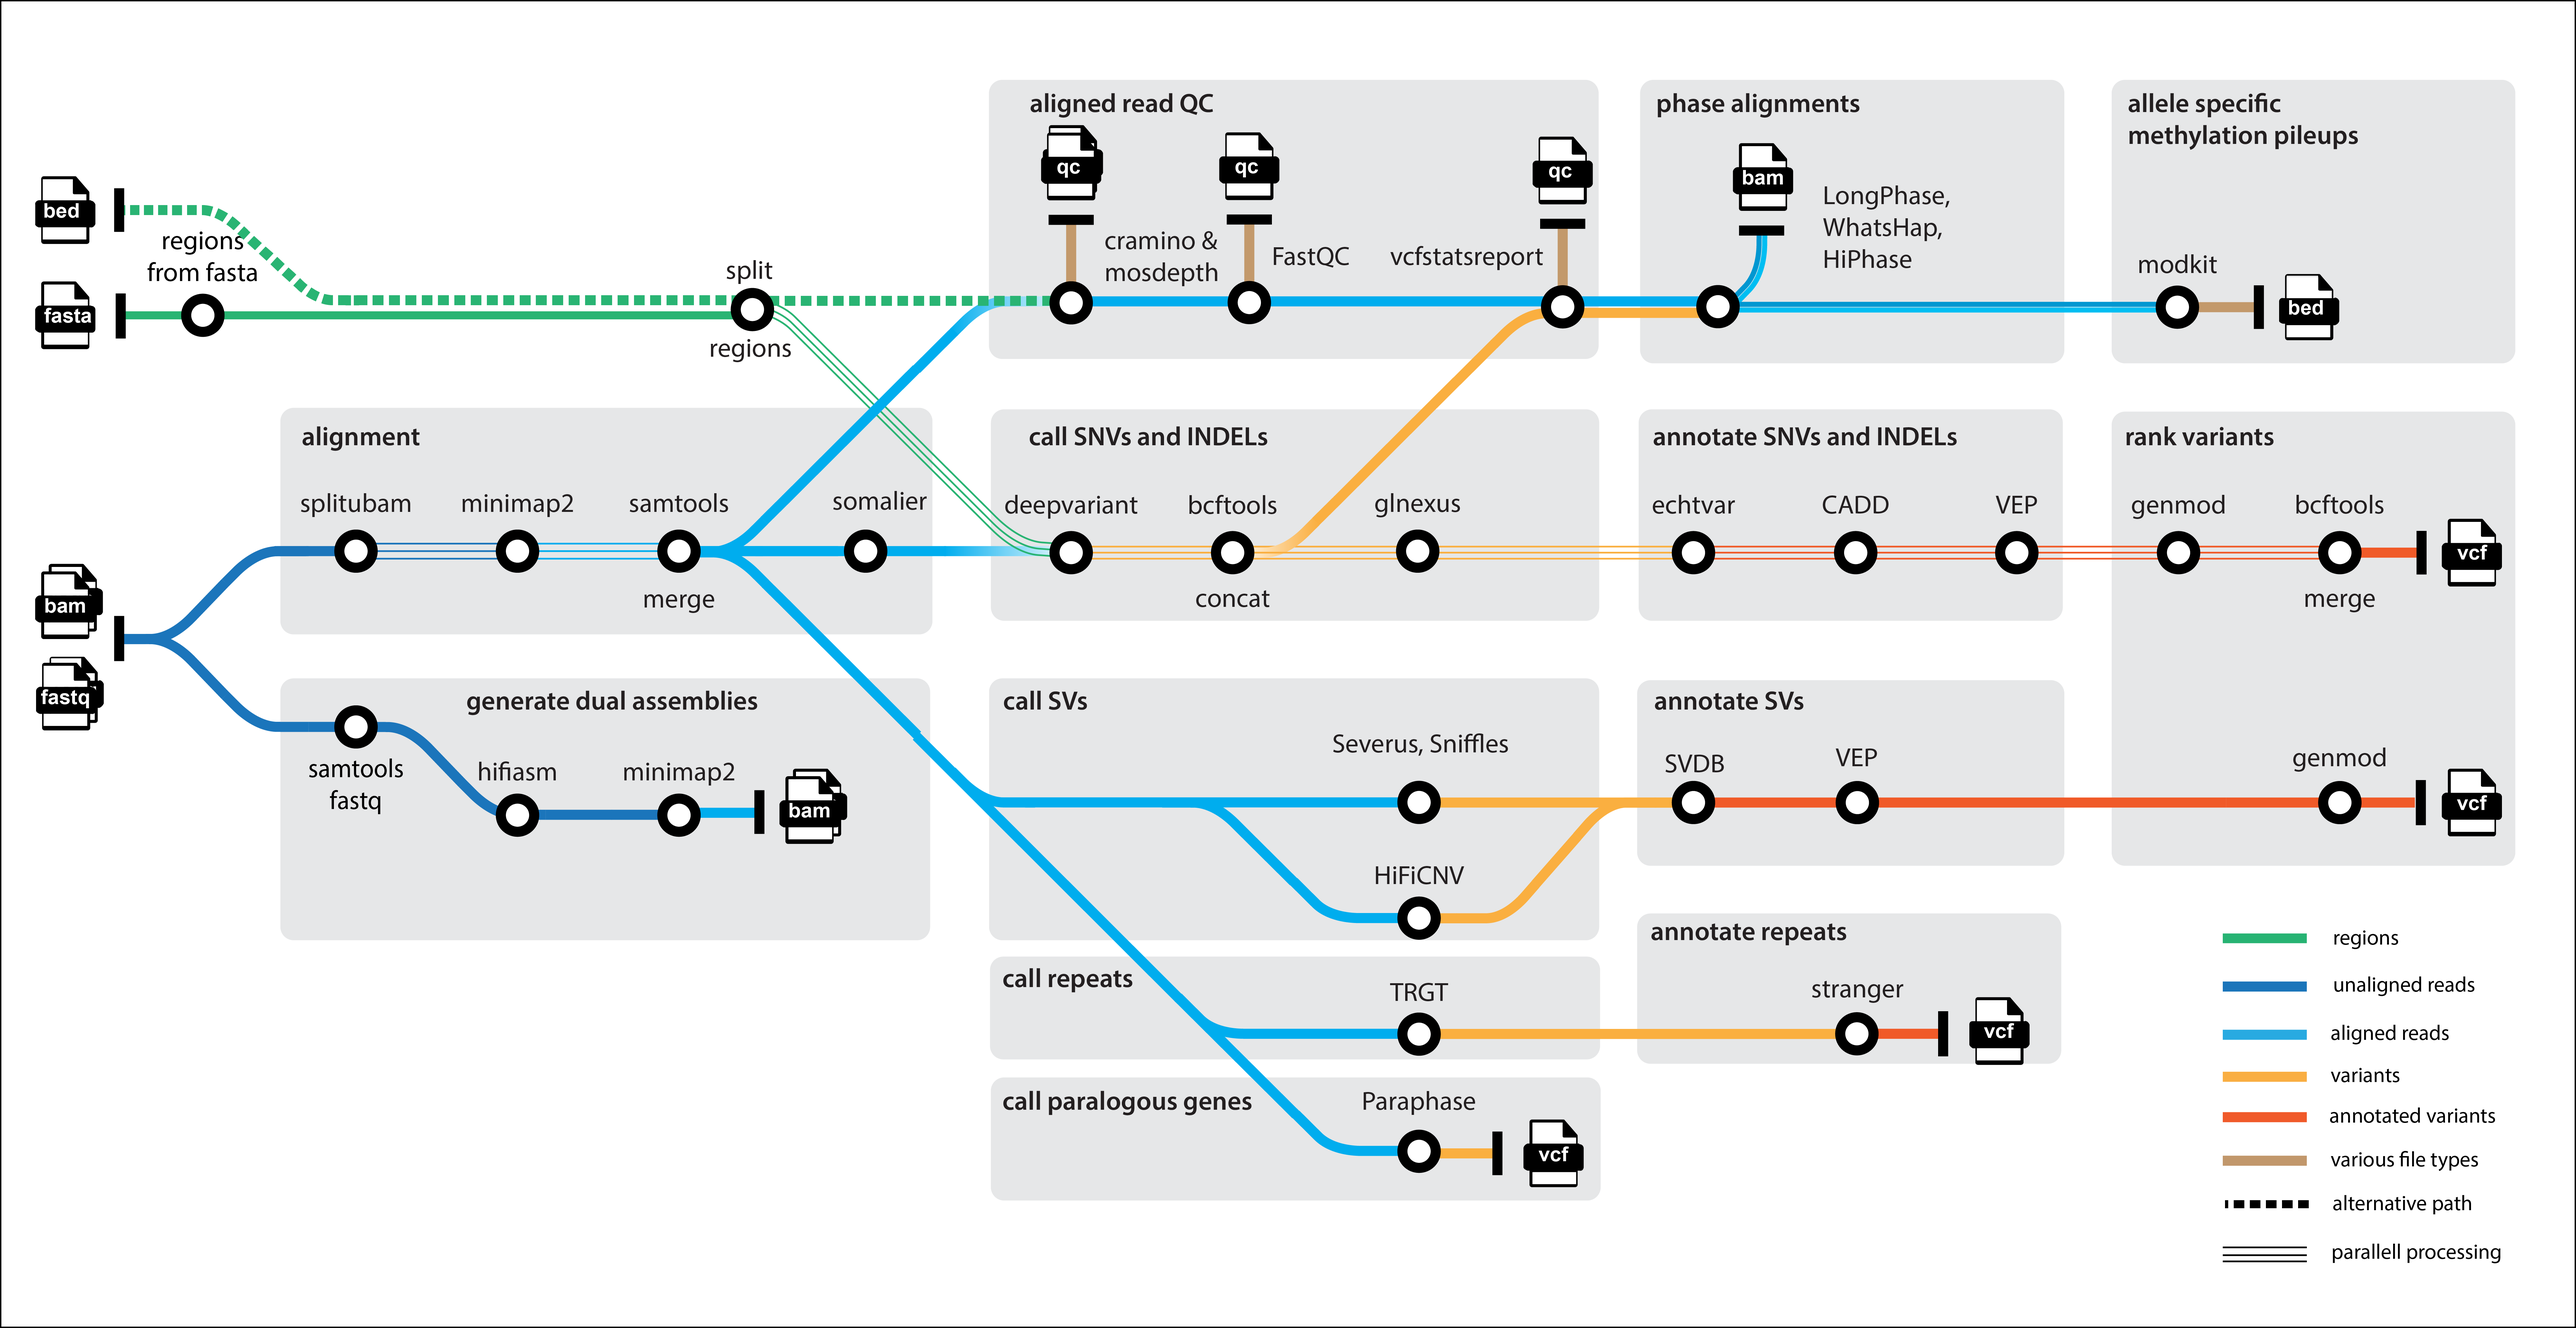
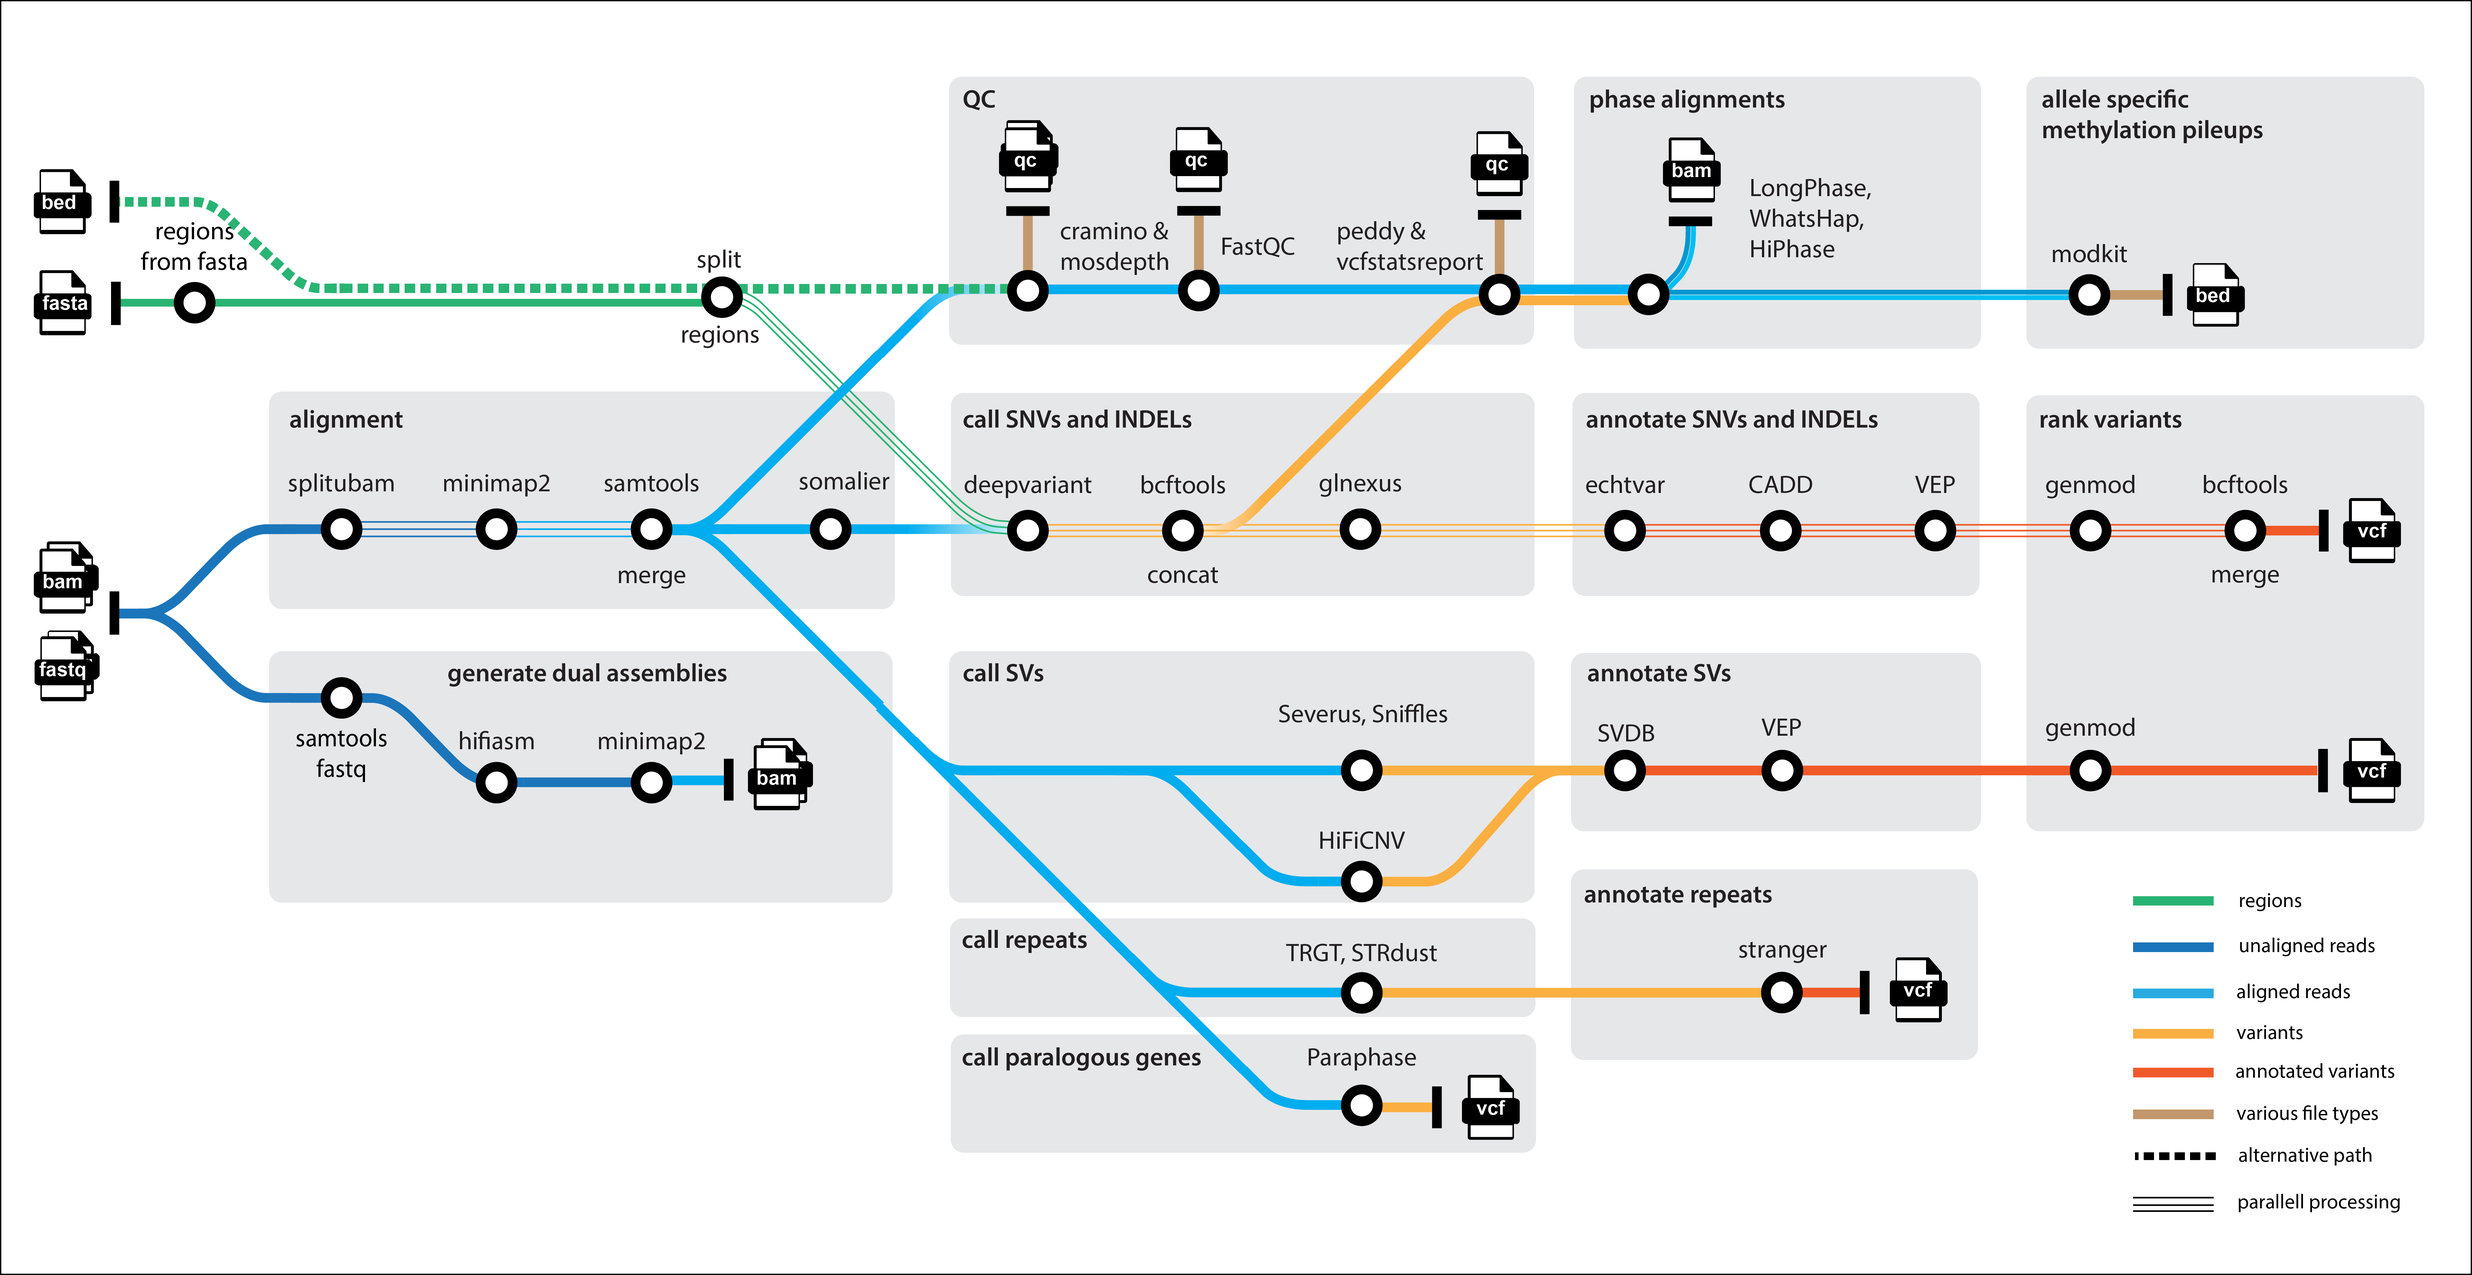
Update metro map with peddy and strdust

diff --git a/CHANGELOG.md b/CHANGELOG.md
@@ -31,6 +31,7 @@ and this project adheres to [Semantic Versioning](https://semver.org/spec/v2.0.0
 - [#621](https://github.com/genomic-medicine-sweden/nallo/pull/621) - Changed repeat annotation workflow to run by default if and only if repeat expansions were called with TRGT.
 - [#632](https://github.com/genomic-medicine-sweden/nallo/pull/632) - Updated `docs/index.md` to avoid duplication with `README.md`
 - [#640](https://github.com/genomic-medicine-sweden/nallo/pull/640) - Updated nf-test paths that were broken by [#626](https://github.com/genomic-medicine-sweden/nallo/pull/626)
+- [#645](https://github.com/genomic-medicine-sweden/nallo/pull/645) - Updated metro map with peddy and STRdust
 
 ### `Removed`
 
